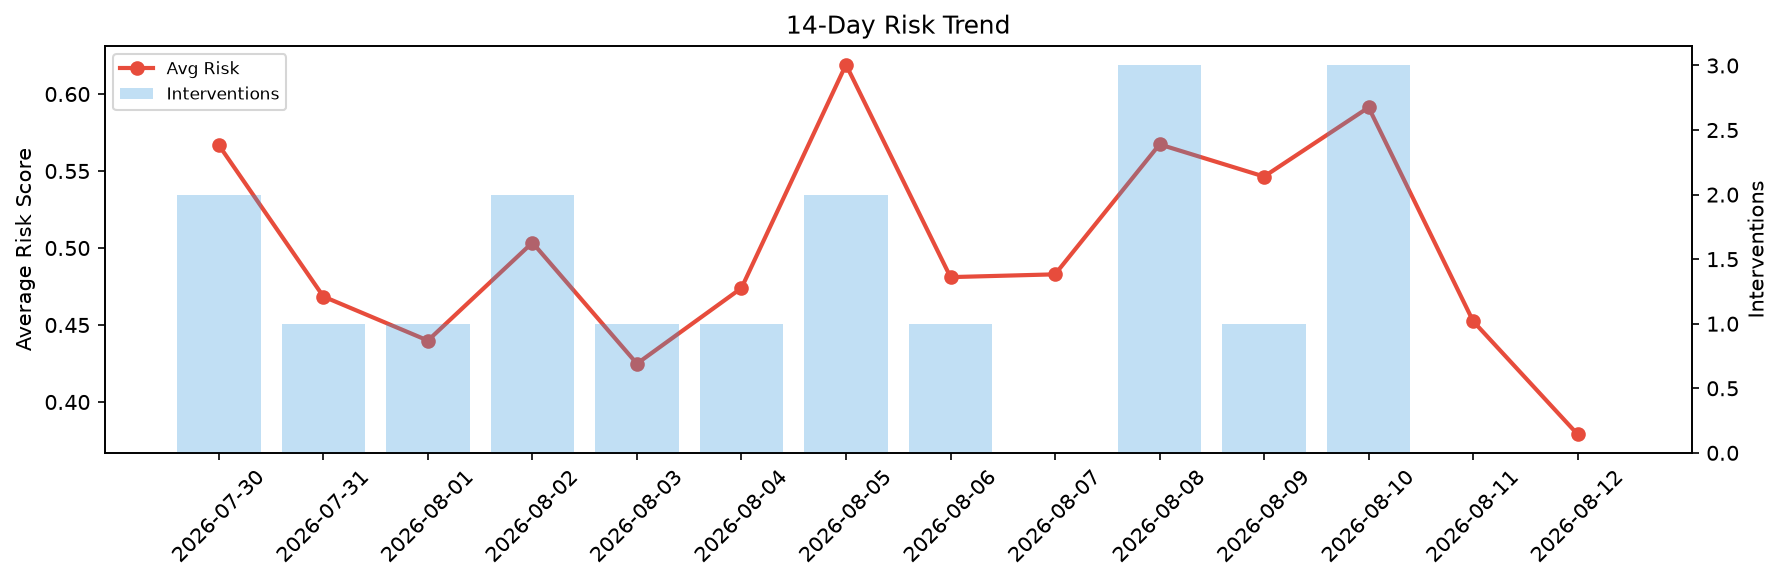
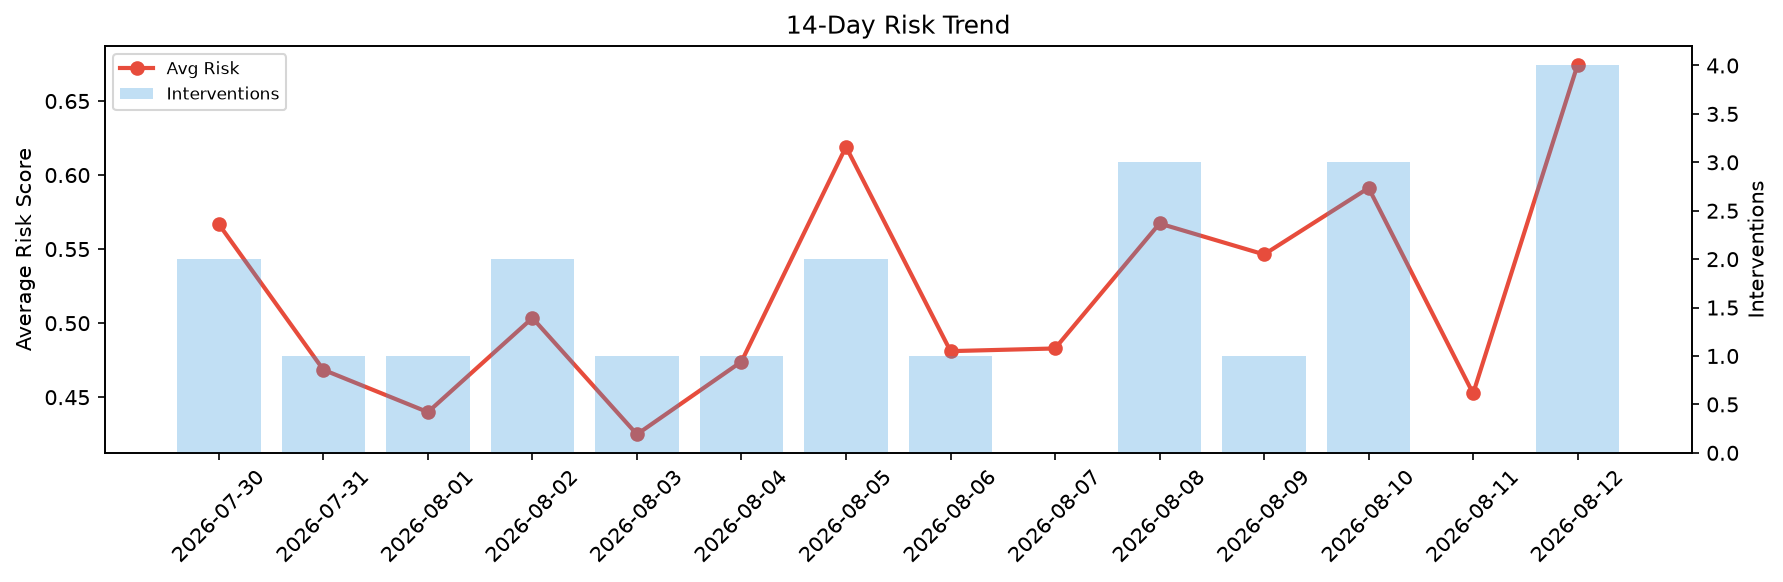
agent-improvement: daily cycle 2026-08-12T15:14

diff --git a/logs/2026-08-12.md b/logs/2026-08-12.md
@@ -1,6 +1,6 @@
 # Agent Improvement Report — 2026-08-12
 
-**Cycle ID:** `7e4f0b1c` | **Avg Risk:** 0.379 | **Interventions:** 0/4
+**Cycle ID:** `64a30e80` | **Avg Risk:** 0.6746 | **Interventions:** 4/4
 
 ![Dashboard](2026-08-12_dashboard.png)
 
@@ -10,18 +10,18 @@
 
 | Domain | Risk Score | Decision | Alerts |
 |--------|-----------|----------|--------|
-| code_review | 0.3648 | monitor | complexity |
-| incident_response | 0.302 | monitor | none |
-| data_pipeline | 0.4254 | monitor | none |
-| deployment | 0.4236 | monitor | rollback_rate |
+| code_review | 0.6976 | intervene | complexity, coverage |
+| incident_response | 0.6158 | intervene | mttr |
+| data_pipeline | 0.6925 | intervene | freshness |
+| deployment | 0.6925 | intervene | latency_p99 |
 
 ## Delta vs Yesterday
 
 | Domain | Today | Yesterday | Change |
 |--------|-------|-----------|--------|
-| code_review | 0.3648 | 0.3434 | 📈 6.2% |
-| incident_response | 0.302 | 0.4841 | 📉 -37.6% |
-| data_pipeline | 0.4254 | 0.5155 | 📉 -17.5% |
-| deployment | 0.4236 | 0.4669 | 📉 -9.3% |
+| code_review | 0.6976 | 0.3434 | 📈 103.1% |
+| incident_response | 0.6158 | 0.4841 | 📈 27.2% |
+| data_pipeline | 0.6925 | 0.5155 | 📈 34.3% |
+| deployment | 0.6925 | 0.4669 | 📈 48.3% |
 
-**Refinement:** `{'adjustment': 'tighten_thresholds', 'trend': 'degrading', 'window': 4}`
+**Refinement:** `{'adjustment': 'maintain', 'trend': 'improving', 'window': 4}`
